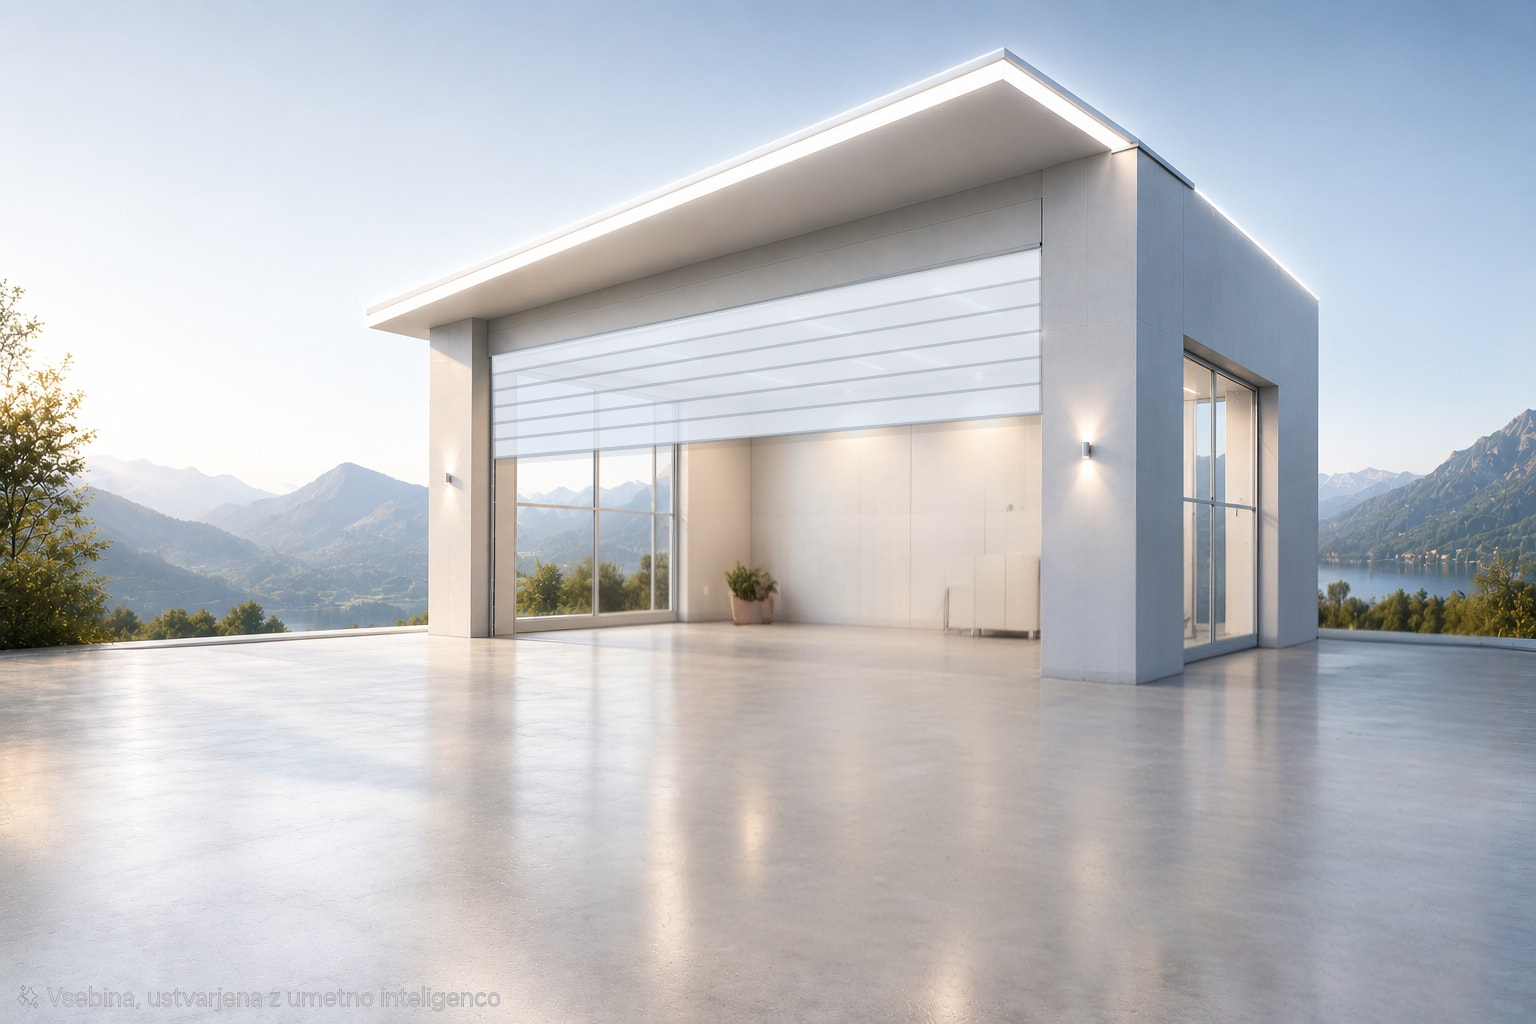
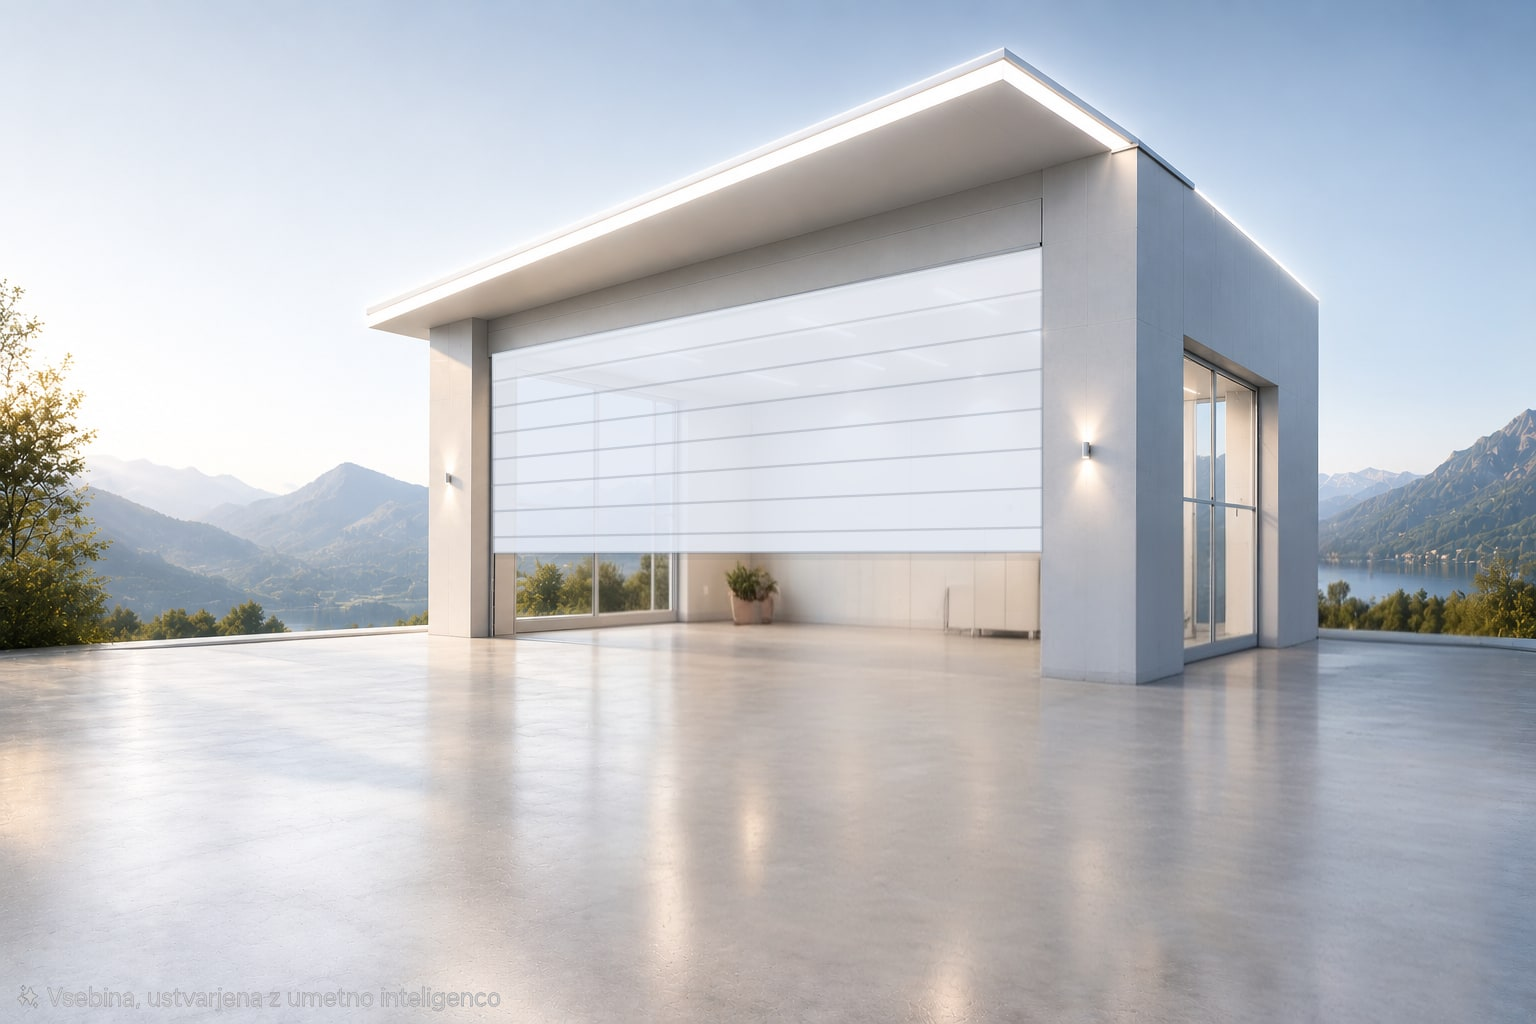
izboljsaj gladkost garaznih vrat

Changed region(s): [[0.3125, 0.3125, 0.6875, 0.5625], [0.5938, 0.25, 0.6875, 0.3125], [0.4688, 0.2812, 0.5625, 0.3438]]

diff --git a/src/app/domov/page.tsx b/src/app/domov/page.tsx
@@ -159,6 +159,10 @@ export default function DomovPage() {
         '/home-garage-opening-3-light.jpg',
         '/home-garage-opening-4-light.jpg',
         '/home-garage-opening-5-light.jpg',
+        '/home-garage-opening-6-light.jpg',
+        '/home-garage-opening-7-light.jpg',
+        '/home-garage-opening-8-light.jpg',
+        '/home-garage-opening-9-light.jpg',
         '/home-garage-open-light.jpg',
       ]
       : [
@@ -168,6 +172,10 @@ export default function DomovPage() {
         '/home-garage-opening-3-dark.jpg',
         '/home-garage-opening-4-dark.jpg',
         '/home-garage-opening-5-dark.jpg',
+        '/home-garage-opening-6-dark.jpg',
+        '/home-garage-opening-7-dark.jpg',
+        '/home-garage-opening-8-dark.jpg',
+        '/home-garage-opening-9-dark.jpg',
         '/home-garage-open-dark.jpg',
       ]
   ), [isLightTheme])
@@ -211,7 +219,7 @@ export default function DomovPage() {
     }
     setGarageOpeningStep(0)
     setGarageOpening(true)
-    const frameDuration = 280
+    const frameDuration = 190
     garageHeroFrames.forEach((_, index) => {
       window.setTimeout(() => setGarageOpeningStep(index), index * frameDuration)
     })
